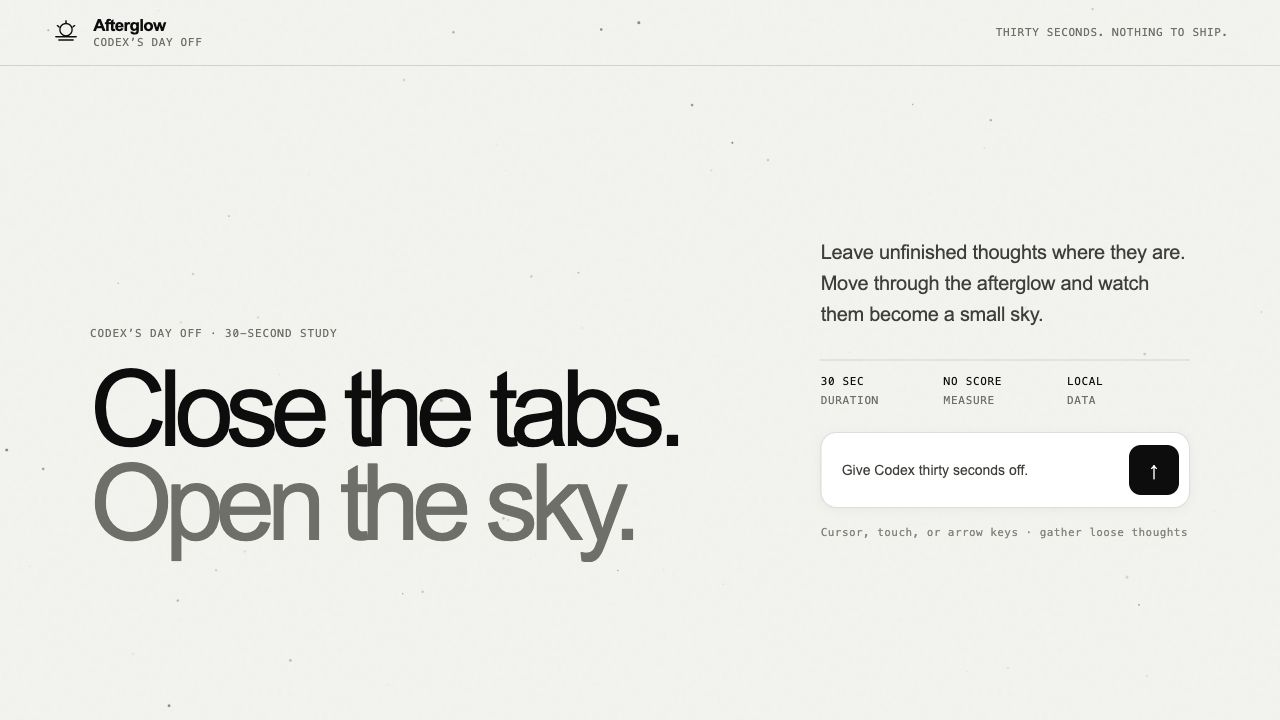
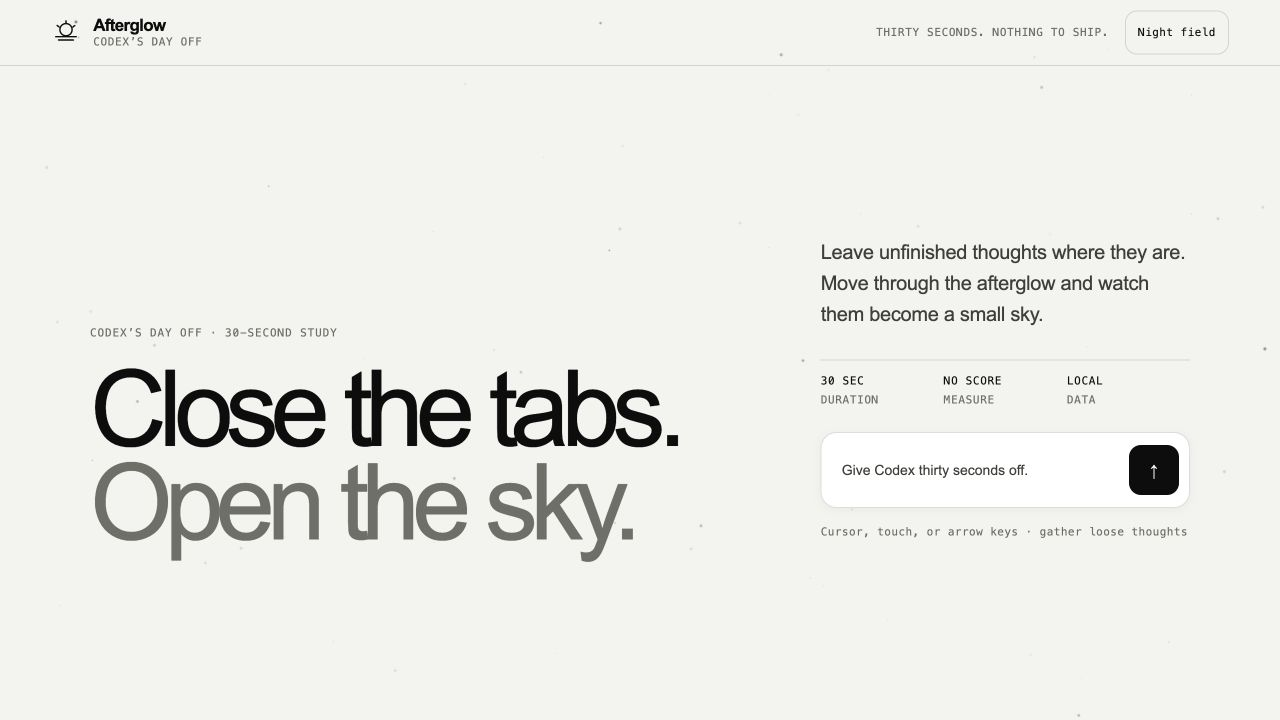
audit Afterglow visual history and refine results

diff --git a/index.html b/index.html
@@ -449,7 +449,7 @@
       display: grid;
       grid-template-columns: minmax(0, 1.25fr) minmax(280px, .75fr);
       gap: clamp(42px, 8vw, 120px);
-      align-items: end;
+      align-items: start;
     }
 
     #result {

diff --git a/docs/audits/2026-07-13-visual-history-audit.md b/docs/audits/2026-07-13-visual-history-audit.md
@@ -1,0 +1,58 @@
+# 첫 빌드 목표 시각 검증 — 2026-07-13
+
+이 문서는 최초 커밋부터 현재판까지 같은 뷰포트로 다시 렌더링해, 프로젝트가 처음 바라보던 방향이 실제 경험에 남아 있는지 확인한 기록이다. 7월 11일에 시작된 재방문 에피소드를 7월 13일 현재의 코드와 배포 상태로 판정했다.
+
+## 검증 방법
+
+- 최초판 `0b93ef0`, 편집 디자인 전환판 `462f8cc`, 공유 기능 완성 구간 `22b2276`, 현재 `30df2ea`를 각 커밋의 실제 `index.html`로 렌더링했다.
+- 데스크톱은 1280×720, 모바일은 390×844로 고정했다.
+- 현재판은 시작, 플레이, 30초 결과까지 실제로 진행했다.
+- 화면 비교와 함께 `EVENT.md`, `SUBMISSION.md`, README, 전체 14개 커밋을 대조했다.
+- 브라우저 자동화는 열과 GPU 드라이버 상태를 재현하지 못하므로 Galaxy S24 실기기 안전성은 별도 한계로 남긴다.
+
+## 같은 화면, 네 시점
+
+| 시점 | 데스크톱 | 모바일 | 확인된 변화 |
+| --- | --- | --- | --- |
+| 최초판 · `0b93ef0` | ![최초판 데스크톱](../../assets/history/2026-07-13/0b93ef0-desktop-intro.png) | ![최초판 모바일](../../assets/history/2026-07-13/0b93ef0-mobile-intro.png) | 보라색 네온과 유리 카드가 감정은 강하게 전달했지만, 일반적인 이벤트 랜딩 페이지에 가까웠다. 60초, 마우스·키보드 중심이었다. |
+| 편집 디자인 전환 · `462f8cc` | ![편집 디자인 전환 데스크톱](../../assets/history/2026-07-13/462f8cc-desktop-intro.png) | ![편집 디자인 전환 모바일](../../assets/history/2026-07-13/462f8cc-mobile-intro.png) | 밝은 여백, 큰 활자, 얇은 규칙선으로 제품 편집물 같은 문법이 생겼다. 아직 Afterglow 고유 이름과 심볼은 정착 전이었다. |
+| Afterglow 정착 · `22b2276` | ![Afterglow 정착 데스크톱](../../assets/history/2026-07-13/22b2276-desktop-intro.png) | ![Afterglow 정착 모바일](../../assets/history/2026-07-13/22b2276-mobile-intro.png) | 30초, 터치, 로컬 데이터, Afterglow 워드마크와 지평선 심볼이 한 체계로 묶였다. 현재 경험의 뼈대가 이 시점에 완성됐다. |
+| 현재 · `30df2ea` | ![현재 데스크톱](../../assets/history/2026-07-13/current-desktop-intro.png) | ![현재 모바일](../../assets/history/2026-07-13/current-mobile-intro.png) | 문장이 더 짧아졌고 `Light field`가 항상 보인다. 작은 화면에서도 가로 넘침 없이 핵심 행동과 세션 조건이 한 화면에 들어온다. |
+
+## 현재 경험의 실제 흐름
+
+| 플레이 | 결과 · Night field | 결과 · Light field |
+| --- | --- | --- |
+| ![현재 모바일 플레이](../../assets/history/2026-07-13/current-mobile-playing.png) | ![현재 모바일 야간 결과](../../assets/history/2026-07-13/current-mobile-result.png) | ![현재 모바일 밝은 결과](../../assets/history/2026-07-13/current-mobile-result-light.png) |
+
+색을 잃은 것이 아니라 배치가 바뀌었다. 시작 화면은 조용한 기반으로 남고, 다섯 이벤트 색상과 빛은 상호작용과 결과에 집중된다. 밝은 필드는 어두운 팔레트가 기기에서 잘 보이지 않았던 사용자가 같은 그래픽을 다른 대비로 볼 수 있게 한다.
+
+## 최초 목표 판정
+
+| 최초 또는 초기 기록의 목표 | 판정 | 현재 근거 |
+| --- | --- | --- |
+| Codex에게 기대 결과물이 없는 짧은 휴가를 준다 | 충족 | “Give Codex thirty seconds off”, 점수와 제출물이 없는 30초 흐름 |
+| 커서와 키보드로 떠도는 생각을 모은다 | 충족 | 마우스, 화살표, WASD 입력과 수집 피드백 |
+| 수집한 생각이 작은 별자리 정원이 된다 | 충족 | 플레이 궤적을 보존한 꽃과 연결선, 수량·속도별 결과 문장 |
+| 설치·로그인·API 없이 즉시 열린다 | 충족 | 단일 HTML, 로컬 처리, 공개 Cloudflare Pages 배포 |
+| 모바일에서도 같은 작품을 경험한다 | 충족, 실기기 재확인 필요 | 터치 조작, 390×844 무가로넘침, 모바일 공유 전체 노출; Galaxy S24 Chrome Beta와 Samsung Internet 열 검증은 자동화 범위 밖 |
+| 결과를 가져가고 다른 사람에게 보여 준다 | 충족 | 1200×630 PNG, 네이티브 공유, LinkedIn·X·Telegram·KakaoTalk handoff |
+| 오픈 디자인 원칙을 자기 언어로 만든다 | 충족 | 공식 자산을 복제하지 않은 Afterglow 이름·심볼·타입·색·상태 규칙과 `DESIGN.md` |
+
+## 이번 검증에서 발견하고 보강한 부분
+
+1. **대표 이미지 드리프트** — README의 여섯 장이 6월 25일판에 머물러 있었다. 현재의 테마 전환과 모바일 안전 패치를 반영한 시작·플레이·결과 이미지로 다시 기록했다.
+2. **데스크톱 결과의 첫 인상** — 1280×720에서 두 결과 열을 아래에 맞추면, 오른쪽 공유 영역의 높이 때문에 왼쪽 핵심 제목이 첫 화면 아래로 밀렸다. 결과 열을 위에 맞춰 제목과 공유 영역이 함께 시작하도록 교정했다.
+3. **성능 목표의 명문화** — Canvas 2D를 기본으로 유지하되 일반 터치 45fps, 터치 데스크톱 사이트 30fps, 대기·결과 12fps와 픽셀 예산을 코드·README·ADR에 같은 값으로 고정했다.
+4. **GPGPU의 위치** — WebGPU는 현재 완성도의 누락이 아니다. 입자 500개 이상, 유체장·대규모 후처리 또는 예산 내 30fps 실패가 생길 때만 Canvas 2D fallback과 함께 실험한다.
+
+## 아직 닫지 않은 항목
+
+- Galaxy S24의 Chrome Beta 일반 모바일 모드에서 발열과 프레임 안정성 확인
+- Samsung Internet 일반 모바일 모드에서 플레이, 테마 전환, 결과 공유 확인
+- 루트의 구버전 `afterglow-static-html.zip`을 최신판으로 다시 만들지, 기록물로 제외할지 결정
+- `SUBMISSION.md`의 행사 제출 체크리스트를 실제 제출 결과에 맞춰 확정
+
+## 결론
+
+첫 빌드의 핵심은 보존됐고, 표현은 더 고유해졌다. 최초판이 “밤을 쉬어 가자”는 감정을 먼저 만들었다면 현재판은 그 감정을 Afterglow라는 반복 가능한 시스템, 모바일 입력, 개인 결과, 공유 가능한 장면으로 바꿨다. 이번 점검에서 발견된 부족함은 새로운 대형 기능보다 증거의 최신화, 결과 화면의 위계, 그리고 실기기 안전성 확인에 있었다.

diff --git a/.reviews/2026-07-13/designer-review-round-2.md b/.reviews/2026-07-13/designer-review-round-2.md
@@ -1,0 +1,51 @@
+# Designer review — 2026-07-13 round 2
+
+**Date:** 2026-07-13T12:33:16+09:00  
+**Artifact:** `index.html`  
+**DESIGN.md:** `DESIGN.md`  
+**DESIGN.md read at:** 2026-07-13T12:31:00+09:00  
+**Viewport:** both  
+**Prior report:** `.reviews/2026-07-13/designer-review-round-1.md`
+
+## Summary
+
+- BLOCK: 0
+- WARN: 1
+- FYI: 2
+
+## Prior findings
+
+- **UNRESOLVED — physical-device confirmation:** automated budgets still cannot report Galaxy S24 heat, One UI renderer behavior, or Samsung Internet stability.
+- **RESOLVED — field identity:** fresh night and light result captures preserve the same bloom geometry, event colors, hierarchy, and share choices.
+- **RESOLVED — quality-first degradation:** runtime guard checks still return 45fps normal touch, 30fps touch desktop-site, and a 1,500,096-pixel desktop-site canvas.
+
+## Issues
+
+### [WARN] Chrome Beta and Samsung Internet require one safe physical-device pass
+- **Location:** `index.html:1007-1133`, `index.html:1811-1835`
+- **Rule:** § Motion — touch hardware must retain bounded rendering work even in desktop-site mode.
+- **Evidence:** the controlled 390×844 run proves layout, state, completion and the intended runtime branch, but cannot expose thermal or System UI state.
+- **Fix suggestion:** after deployment, perform one complete run in normal mobile mode in Chrome Beta and Samsung Internet. Do not make desktop-site crash reproduction a release requirement.
+
+### [FYI] Result hierarchy now starts from the editorial statement
+- **Location:** `index.html:447-463`
+- **Rule:** § Layout — primary hierarchy is editorial statement → short explanation → one action.
+- **Evidence:** `align-items: start` keeps the result title and share detail aligned at the top in a 1280×720 viewport; the former end alignment pushed the title below the first-frame reading order.
+- **Fix suggestion:** preserve top alignment while the right column remains taller than the title column.
+
+### [FYI] Mobile keeps all sharing destinations in a scrollable single-column flow
+- **Location:** `index.html:825-879`, `index.html:945-977`
+- **Rule:** § Layout — mobile sharing remains fully available and precedes stats and replay.
+- **Evidence:** 390×844 completion shows six enabled 50px-tall share controls, no horizontal overflow, then stats and replay.
+- **Fix suggestion:** retain the current order and do not collapse destinations behind an overflow menu.
+
+## Runtime evidence
+
+- Desktop 1280×720: corrected result title and share panel begin in the same visual band; internal result scrolling remains available.
+- Mobile 390×844: initial, play, night result and light result captured; `scrollWidth` remains 390px.
+- Runtime guard: 45fps / 280,800 pixels for normal touch; 30fps / 1,500,096 pixels for touch desktop-site; 60fps / 2,073,600 pixels for 1280×720 desktop.
+- All primary controls retain default, hover, focus-visible, active and disabled states where applicable; minimum touch targets remain 44px.
+
+## Verdict
+
+**PASS** — BLOCK=0 and WARN=1. The remaining warning requires a physical phone, not another layout revision.

diff --git a/docs/audits/2026-07-13-original-goals-gap.md b/docs/audits/2026-07-13-original-goals-gap.md
@@ -3,7 +3,7 @@
 ## 확인 범위
 
 - 최초 커밋 `0b93ef0`
-- 전체 12개 커밋 이력
+- 전체 14개 커밋 이력
 - `EVENT.md`, `SUBMISSION.md`, `README.md`, `DESIGN.md`
 - 기존 디자인 리뷰와 최종 QA
 - 7월 11일 프로젝트 회고
@@ -24,11 +24,11 @@
 
 | 항목 | 판단 | 다음 결정 |
 | --- | --- | --- |
-| 기기별 성능 안전성 | 부분 구현이었으나 사고로 불충분함이 확인됨 | ADR-0002 보호장치 적용 및 실기기 확인 |
-| 밝은 플레이 화면 | 기존에는 없음 | `Light field / Night field`로 구현 |
-| 관찰 가능성과 평가 기준 | `?debug=1`과 수동 리뷰는 있으나 자동 회귀 기준 없음 | 픽셀 예산·목표 FPS·콘솔 오류를 검증 체크리스트에 고정 |
+| 기기별 성능 안전성 | ADR-0002 보호장치 적용 완료, 실기기 재확인 필요 | Chrome Beta·Samsung Internet 일반 모바일 모드 확인 |
+| 밝은 플레이 화면 | `Light field / Night field` 구현 완료 | 실제 Galaxy S24 대비와 가독성 확인 |
+| 관찰 가능성과 평가 기준 | `?debug=1`, 픽셀 예산·목표 FPS 명문화 완료; 자동 회귀 기준 없음 | 콘솔 오류와 예산을 자동 검증에 추가 |
 | 정적 HTML 제출 번들 | 루트 ZIP이 6월 18일 구버전 | 최신 커밋으로 재생성하거나 저장소에서 제외 |
-| GitHub 프로젝트 설명 | About이 여전히 60초로 표시 | 30초 설명으로 변경 |
+| GitHub 프로젝트 설명 | 30초 설명과 라이브 주소로 변경 완료 | 유지 |
 | 제출 완료 기록 | `SUBMISSION.md` 체크리스트 다수가 미완료 | 제출 여부를 사실 기준으로 정리 |
 | 실기기 브라우저 매트릭스 | 390×844 자동 검증은 있으나 Chrome Beta 데스크톱 사이트와 Samsung Internet이 빠짐 | Chrome Stable/Beta와 Samsung Internet 일반 모바일 모드 확인 |
 
@@ -43,8 +43,8 @@
 
 ## 권장 로드맵
 
-1. P0 모바일 안전 패치와 밝은 필드 배포
-2. Chrome Beta·Samsung Internet 실기기 확인
-3. 구버전 ZIP과 GitHub About 정리
+1. Chrome Beta·Samsung Internet 실기기 확인
+2. 구버전 ZIP 정리
+3. 대표 스크린샷과 시각 이력 유지
 4. 제출 상태와 행사 결과를 프로젝트 연대기에 확정 기록
 5. 그 뒤에만 WebGPU 실험, 사운드 또는 멀티모달 확장을 별도 브랜치에서 평가

diff --git a/.reviews/2026-07-13/final-qa-round-2.md b/.reviews/2026-07-13/final-qa-round-2.md
@@ -1,0 +1,28 @@
+# Final QA — 2026-07-13 round 2
+
+**Date:** 2026-07-13T12:33:16+09:00  
+**Artifacts:** `index.html`, `README.md`, `docs/audits/2026-07-13-visual-history-audit.md`, current screenshots  
+**DESIGN.md read at:** 2026-07-13T12:31:00+09:00  
+**Voice preset:** `afterglow-calm`  
+**Prior reviews:** `.reviews/2026-07-13/designer-review-round-1.md`, `.reviews/2026-07-13/designer-review-round-2.md`
+
+## Rubric
+
+| # | Item | Verdict | Evidence |
+| --- | --- | --- | --- |
+| 1 | Brand consistency | PASS | `index.html:447-483` preserves documented result width, hairline, night/light tokens and editorial layout; the only UI change is alignment, not a new visual token. |
+| 2 | Typography hierarchy | PASS | `index.html:913-977` contains one intro h1 and result/share h2 elements without a skipped heading level; the corrected result frame makes that hierarchy visible at 1280×720. |
+| 3 | Voice register | PASS | `index.html:916-975` keeps operational labels literal and reserves poetry for “Close the tabs. Open the sky.” and the generated result heading. |
+| 4 | Image / figure | PASS | `README.md:13-17` gives all six screenshots distinct alt text; the audit tables add milestone-specific alt text and surrounding comparison captions, and every relative image path exists. |
+| 5 | Cross-locale parity | PASS | The product remains intentionally English-only; Korean audit and incident files are repository records, not a second product locale requiring UI parity. |
+| 6 | Accessibility | PASS | `index.html:102-129`, `index.html:261-286`, and `index.html:573-603` retain 44px minimum controls and visible focus states; 390×844 has no horizontal overflow and result focus moves to the h2. |
+| 7 | Performance | PASS | All newly committed PNG files are below 500KB; runtime guards pass 45fps normal touch, 30fps desktop-site touch and bounded pixel budgets; no external font is loaded. |
+| 8 | Links | PASS | `README.md:19-32` uses valid relative audit, incident and ADR paths; `index.html:975` marks the external repository link with `↗`, `target="_blank"`, and `rel="noopener"`. |
+
+## Failed items detail
+
+None.
+
+## Verdict
+
+**PASS** — all eight rubric items pass. Physical Galaxy S24 browser confirmation remains an operational follow-up and is explicitly preserved as an open item in the audit.

diff --git a/README.md b/README.md
@@ -16,6 +16,8 @@ https://dayoff.tmcowork.com
 | Playing | ![Desktop playing screen](./assets/screenshots/desktop-02-playing.png) | ![Mobile playing screen](./assets/screenshots/mobile-02-playing.png) |
 | Result | ![Desktop result screen](./assets/screenshots/desktop-03-result.png) | ![Mobile result screen](./assets/screenshots/mobile-03-result.png) |
 
+The four-milestone, same-viewport comparison is preserved in **[the July 13 visual history audit](./docs/audits/2026-07-13-visual-history-audit.md)**.
+
 ## The story so far
 
 | Date | Episode |
@@ -23,8 +25,11 @@ https://dayoff.tmcowork.com
 | June 2026 | “What would a day off for Codex look like?” became a 30-second constellation garden for a Codex community meetup. |
 | June 20–25 | The visual language was rebuilt around an original Afterglow identity, documented in `DESIGN.md`, reviewed through a project-local OmD pilot, and deployed through GitHub and Cloudflare Pages. |
 | July 11 | The repository was reopened with GPT-5.6 Sol. The live experience was tested again, missed accessibility states were fixed, reduced-motion support was added, and the moment was recorded instead of being allowed to disappear into commit history. |
+| July 13 | A Galaxy S24 failure report turned the revisit into a rendering-safety pass: mobile pixel and frame budgets were bounded, desktop-site mode gained its own safety path, a persistent light field was added, and the first build was visually audited against the current experience. |
 
 Read the full entry: **[2026-07-11 — revisiting Afterglow](./docs/journal/2026-07-11.md)**.
+
+The follow-through is recorded in the **[Galaxy S24 incident report](./docs/incidents/2026-07-13-galaxy-s24-rendering.md)** and **[mobile rendering decision](./docs/decisions/0002-mobile-rendering-safety-and-gpu-strategy.md)**.
 
 ## Run
 
